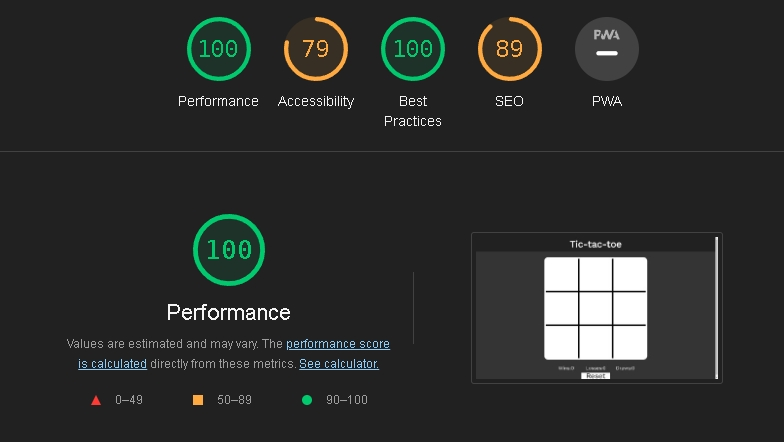
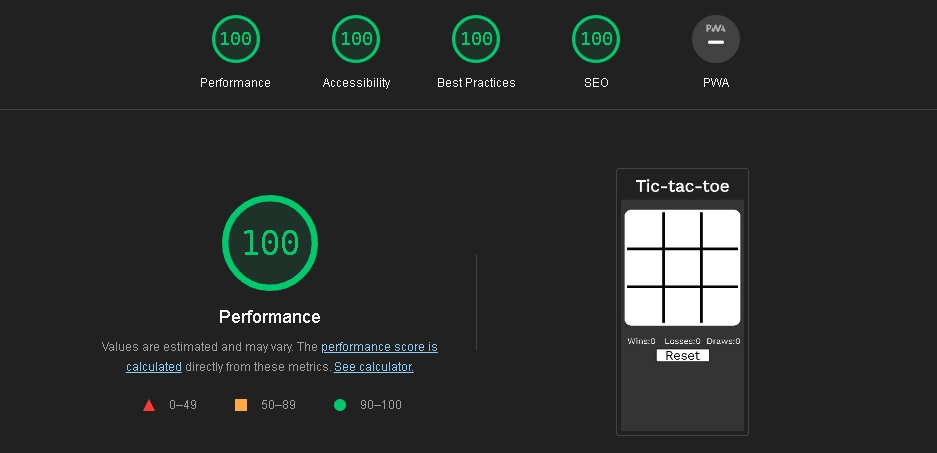
update lighthouse report and fix typo in readme

diff --git a/README.md b/README.md
@@ -1,6 +1,6 @@
 # Tic-tac-toe
 This is a site aimed at allowing a user to play tic-tac-toe and track their wins, losses, and draws against a computer opponent. This will be useful for anyone wanting to play the game or practice and improve by tracking their progress.
-[Site on different screen sizes](assets/images/responsive.jpg)
+![Site on different screen sizes](assets/images/responsive.jpg)
 
 ## Features
 - ### Game board
